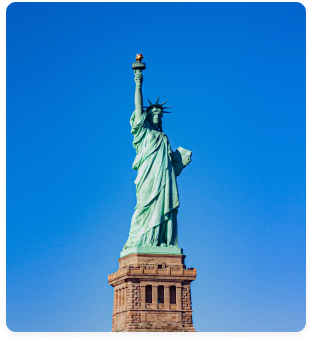
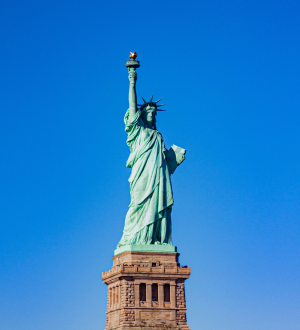
minor fixes

Changed region(s): [[0.0, 0.0, 1.0, 1.0]]

diff --git a/index.html b/index.html
@@ -14,7 +14,7 @@
     <header class="header">
         <div class="container">
             <div class="flex-wrapper">
-                <img src="src/img/logo-white.svg" alt="Zettavisa">
+                <a href="/"><img src="src/img/logo-white.svg" alt="Zettavisa"></a>
                 <div class="socials socials_header">
                     <span>Всегда на связи</span>
                     <a href="tel:+79605950422">8 (960)595-04-22</a>
@@ -172,6 +172,8 @@
                 <ul class="countries-list">
                     <li class="country">
                         <div class="country__outter">
+                            <img src="src/img/liberty.png" alt="" class="country__image">
+                            <img src="src/img/liberty-alt.png" alt="" class="country__image country__image-alt">
                             <div class="country__inner">
                                 <h3 class="country__heading">США</h3>
                                 <span>Срок выдачи</span>
@@ -184,6 +186,8 @@
                     </li>
                     <li class="country">
                         <div class="country__outter">
+                            <img src="src/img/liberty.png" alt="" class="country__image">
+                            <img src="src/img/liberty-alt.png" alt="" class="country__image country__image-alt">
                             <div class="country__inner">
                                 <h3 class="country__heading">США</h3>
                                 <span>Срок выдачи</span>
@@ -196,6 +200,8 @@
                     </li>
                     <li class="country">
                         <div class="country__outter">
+                            <img src="src/img/liberty.png" alt="" class="country__image">
+                            <img src="src/img/liberty-alt.png" alt="" class="country__image country__image-alt">
                             <div class="country__inner">
                                 <h3 class="country__heading">США</h3>
                                 <span>Срок выдачи</span>
@@ -208,6 +214,8 @@
                     </li>
                     <li class="country">
                         <div class="country__outter">
+                            <img src="src/img/liberty.png" alt="" class="country__image">
+                            <img src="src/img/liberty-alt.png" alt="" class="country__image country__image-alt">
                             <div class="country__inner">
                                 <h3 class="country__heading">США</h3>
                                 <span>Срок выдачи</span>
@@ -220,6 +228,8 @@
                     </li>
                     <li class="country">
                         <div class="country__outter">
+                            <img src="src/img/liberty.png" alt="" class="country__image">
+                            <img src="src/img/liberty-alt.png" alt="" class="country__image country__image-alt">
                             <div class="country__inner">
                                 <h3 class="country__heading">США</h3>
                                 <span>Срок выдачи</span>
@@ -232,6 +242,8 @@
                     </li>
                     <li class="country">
                         <div class="country__outter">
+                            <img src="src/img/liberty.png" alt="" class="country__image">
+                            <img src="src/img/liberty-alt.png" alt="" class="country__image country__image-alt">
                             <div class="country__inner">
                                 <h3 class="country__heading">США</h3>
                                 <span>Срок выдачи</span>
@@ -242,6 +254,7 @@
                             </div>
                         </div>
                     </li>
+
 
                 </ul>
             </div>
@@ -293,14 +306,14 @@
                 </li>
                 <li class="comments-list__comment comment">
                     <div class="flex-wrapper">
-                        <img src="src/icons/user.png" alt="Аватар" class="comment__img">
+                        <img src="src/img/marina.png" alt="Аватар" class="comment__img">
                         <span class="comment__name">Марина</span>
                     </div>
                     <div class="comment__text">Съездили отдохнуть на море! Все суууупер!!)</div>
                 </li>
                 <li class="comments-list__comment comment">
                     <div class="flex-wrapper">
-                        <img src="src/icons/user.png" alt="Аватар" class="comment__img">
+                        <img src="src/img/ekaterina.png" alt="Аватар" class="comment__img">
                         <span class="comment__name">Екатерина</span>
                     </div>
                     <div class="comment__text">Спасибо, быстро и недорого</div>

diff --git a/region-page.html b/region-page.html
@@ -15,18 +15,8 @@
     <header class="header-small">
         <div class="container">
             <div class="flex-wrapper">
-                <img src="src/img/logo-white.svg" alt="Zettavisa">
-<!--                    <div class="flex-wrapper number-wrapper">-->
-<!--                        <span>Всегда на связи</span>-->
-<!--                        <a href="tel:+79605950422">8 (960)595-04-22</a>-->
-<!--                    </div>-->
-<!--                    <div class="flex-wrapper links-wrapper">-->
-<!--                        <span>Напишите нам</span>-->
-<!--                        <div class="flex-wrapper">-->
-<!--                            <a href="tg.me" class="telegramm-link"></a>-->
-<!--                            <a href="#" class="whattsapp-link"></a>-->
-<!--                        </div>-->
-<!--                    </div>-->
+                <a href="/"><img src="src/img/logo-white.svg" alt="Zettavisa"></a>
+
                 <div class="socials socials_header">
                     <span>Всегда на связи</span>
                     <a href="tel:+79605950422">8 (960)595-04-22</a>
@@ -210,6 +200,7 @@
                     <span class="visa-type">Шенгенская виза в</span>
                     <select name="country" id="calculator__country-select">
                         <option value="Австрия" data-period="5" data-time="1" data-price="2000" selected>Австрия</option>
+                        <option value="Италия" data-period="10" data-time="1" data-price="300" selected>Италия</option>
                     </select>
                     <div class="hint">
                         <div class="hint__tooltip">
@@ -221,15 +212,15 @@
                 <div class="flex-wrapper">
                     <div class="flex-column parameter">
                         <div class="parameter-heading period">Срок пребывания</div>
-                        <div class="parameter-value period-value">5</div>
+                        <div class="parameter-value period-value"></div>
                     </div>
                     <div class="flex-column parameter">
                         <div class="parameter-heading time">Срок получения визы</div>
-                        <div class="parameter-value time-value">1</div>
+                        <div class="parameter-value time-value"></div>
                     </div>
                     <div class="flex-column parameter">
                         <div class="parameter-heading price">Стоимость оформления</div>
-                        <div class="parameter-value price-value">2000</div>
+                        <div class="parameter-value price-value"></div>
                     </div>
                 </div>
                 <div class="flex-wrapper">

diff --git a/scripts/main.js b/scripts/main.js
@@ -8,26 +8,30 @@ $(document).ready(function () {
 
     $('.countries-list').slick({
         slidesToShow:4,
+        variableWidth: true,
         arrows:true,
         responsive:[
             {
                 breakpoint:1400,
                 settings:{
                     slidesToShow: 3,
+                    variableWidth: true
                 }
             },
             {
                 breakpoint: 1100,
                 settings: {
                     arrows:false,
-                    slidesToShow: 3
+                    slidesToShow: 3,
+                    variableWidth: true
                 }
             },
             {
                 breakpoint: 960,
                 settings: {
                     slidesToShow: 2,
-                    arrows: false
+                    arrows: false,
+                    variableWidth: true
                 }
             },
             {
@@ -35,7 +39,6 @@ $(document).ready(function () {
                 settings: {
                     slidesToShow: 1,
                     arrows: false,
-                    slidesToShow: 1,
                     centerMode: true,
                     variableWidth: true
                 }
@@ -111,24 +114,28 @@ $(document).ready(function () {
         slidesToShow:3,
         arrows:true,
         infinite: false,
+        variableWidth:true,
         responsive:[
             {
                 breakpoint:1400,
                 settings: {
-                    slidesToShow: 3
+                    slidesToShow: 3,
+                    variableWidth:true
                 }
             },
             {
                 breakpoint: 960,
                 settings: {
-                    slidesToShow: 2
+                    slidesToShow: 2,
+                    variableWidth:true
                 }
             },
             {
                 breakpoint: 660,
                 settings: {
                     slidesToShow: 1,
-                    arrows:false
+                    arrows:false,
+                    variableWidth:true
                 }
             }
         ]
@@ -195,6 +202,7 @@ $(window).resize(function () {
                         speed: 300,
                         slidesToShow: 1,
                         centerMode: true,
+                        variableWidth:true
                     }
                 }
             ]

diff --git a/styles/style.css b/styles/style.css
@@ -361,6 +361,7 @@ header .callback-form{
     width: 300px;
     justify-content: center;
     border-radius: 10px;
+    overflow: hidden;
     list-style: none;
     outline: none;
     margin: 0 5px;
@@ -369,11 +370,21 @@ header .callback-form{
     position: relative;
     width: 300px;
     height: 330px;
-    background-image: url('../src/img/liberty.png');
     background-repeat: no-repeat;
     background-position: center center;
     overflow: hidden;
     box-shadow: 0px 4px 6px rgba(0, 0, 0, 0.06);
+}
+
+.country__image{
+    width: 300px;
+    height: 330px;
+}
+
+.country__image-alt{
+    display: none;
+    width: 236px;
+    height: 170px;
 }
 
 .country__inner{
@@ -895,7 +906,7 @@ header .callback-form{
     float: left;
     display: inline-block;
     list-style:none;
-    /*max-width: 290px;*/
+    width: 290px;
     padding-right: 20px;
     border-right: 1px solid  #E0E0E0;
     margin-right: 30px;
@@ -1305,7 +1316,7 @@ header .callback-form{
 }
 
 .prices .rates{
-    padding-top: 322px;
+    padding-top: 227px;
     margin-top: 0;
 }
 
@@ -1987,7 +1998,11 @@ header .callback-form{
         margin: 15px 0;
     }
     .rates-list{
-        margin: 75px auto 0;
+        margin: 65px auto 0;
+    }
+
+    .rates-list .slick-track{
+        padding-top: 10px;
     }
 
     .rate{
@@ -2149,6 +2164,11 @@ header .callback-form{
         padding: 0;
     }
 
+    .countries-list .slick-track{
+        padding-top: 5px;
+        padding-bottom: 5px;
+    }
+
     .country{
         margin: 0 15px;
         height: 371px;
@@ -2183,6 +2203,14 @@ header .callback-form{
         border-radius: 0;
     }
 
+    .country__image{
+        display: none !important;
+    }
+    
+    .country__image-alt{
+        display: block !important;
+    }
+    
     .country__inner .country__heading{
         display: flex;
         justify-content: flex-start;
@@ -2318,6 +2346,14 @@ header .callback-form{
 
    .callback-section .container{
        padding-top: 0;
+   }
+
+   #modal-rates{
+       height: 100vh;
+   }
+
+   #modal-rates ul{
+       overflow-y: scroll;
    }
 
 }

diff --git a/scripts/region-scripts.js b/scripts/region-scripts.js
@@ -1,7 +1,19 @@
 $(document).ready(function () {
+    //инициализация значений в калькуляторе
+    let period = $('select option:selected').attr('data-period')
+    let time = $('select option:selected').attr('data-time')
+    let price = $('select option:selected').attr('data-price')
+
+    $('.period-value').text(period)
+    $('.time-value').text(time)
+    $('.price-value').text(price)
+
+
     $('.rates-list').slick({
         slidesToShow:1,
         arrows:false,
+        variableWidth:true,
+        centerMode:true,
         responsive: [
             {
                 breakpoint:4000,
@@ -11,7 +23,9 @@ $(document).ready(function () {
                 breakpoint: 720,
                 settings: {
                     slidesToShow:1,
-                    arrows:false
+                    arrows:false,
+                    variableWidth:true,
+                    centerMode:true
                 }
             }
         ]
@@ -24,6 +38,8 @@ $(window).resize(function () {
         $('.rates-list').slick({
             slidesToShow:1,
             arrows:false,
+            variableWidth:true,
+            centerMode:true,
             responsive: [
                 {
                     breakpoint:1920,
@@ -33,11 +49,24 @@ $(window).resize(function () {
                     breakpoint: 720,
                     settings: {
                         slidesToShow:1,
-                        arrows:false
+                        arrows:false,
+                        variableWidth:true,
+                        centerMode:true
                     }
                 }
             ]
 
         })
     }
+})
+
+$('#calculator__country-select').on('change', function () {
+    let period = $('select option:selected').attr('data-period')
+    let time = $('select option:selected').attr('data-time')
+    let price = $('select option:selected').attr('data-price')
+
+    $('.period-value').text(period)
+    $('.time-value').text(time)
+    $('.price-value').text(price)
+
 })
